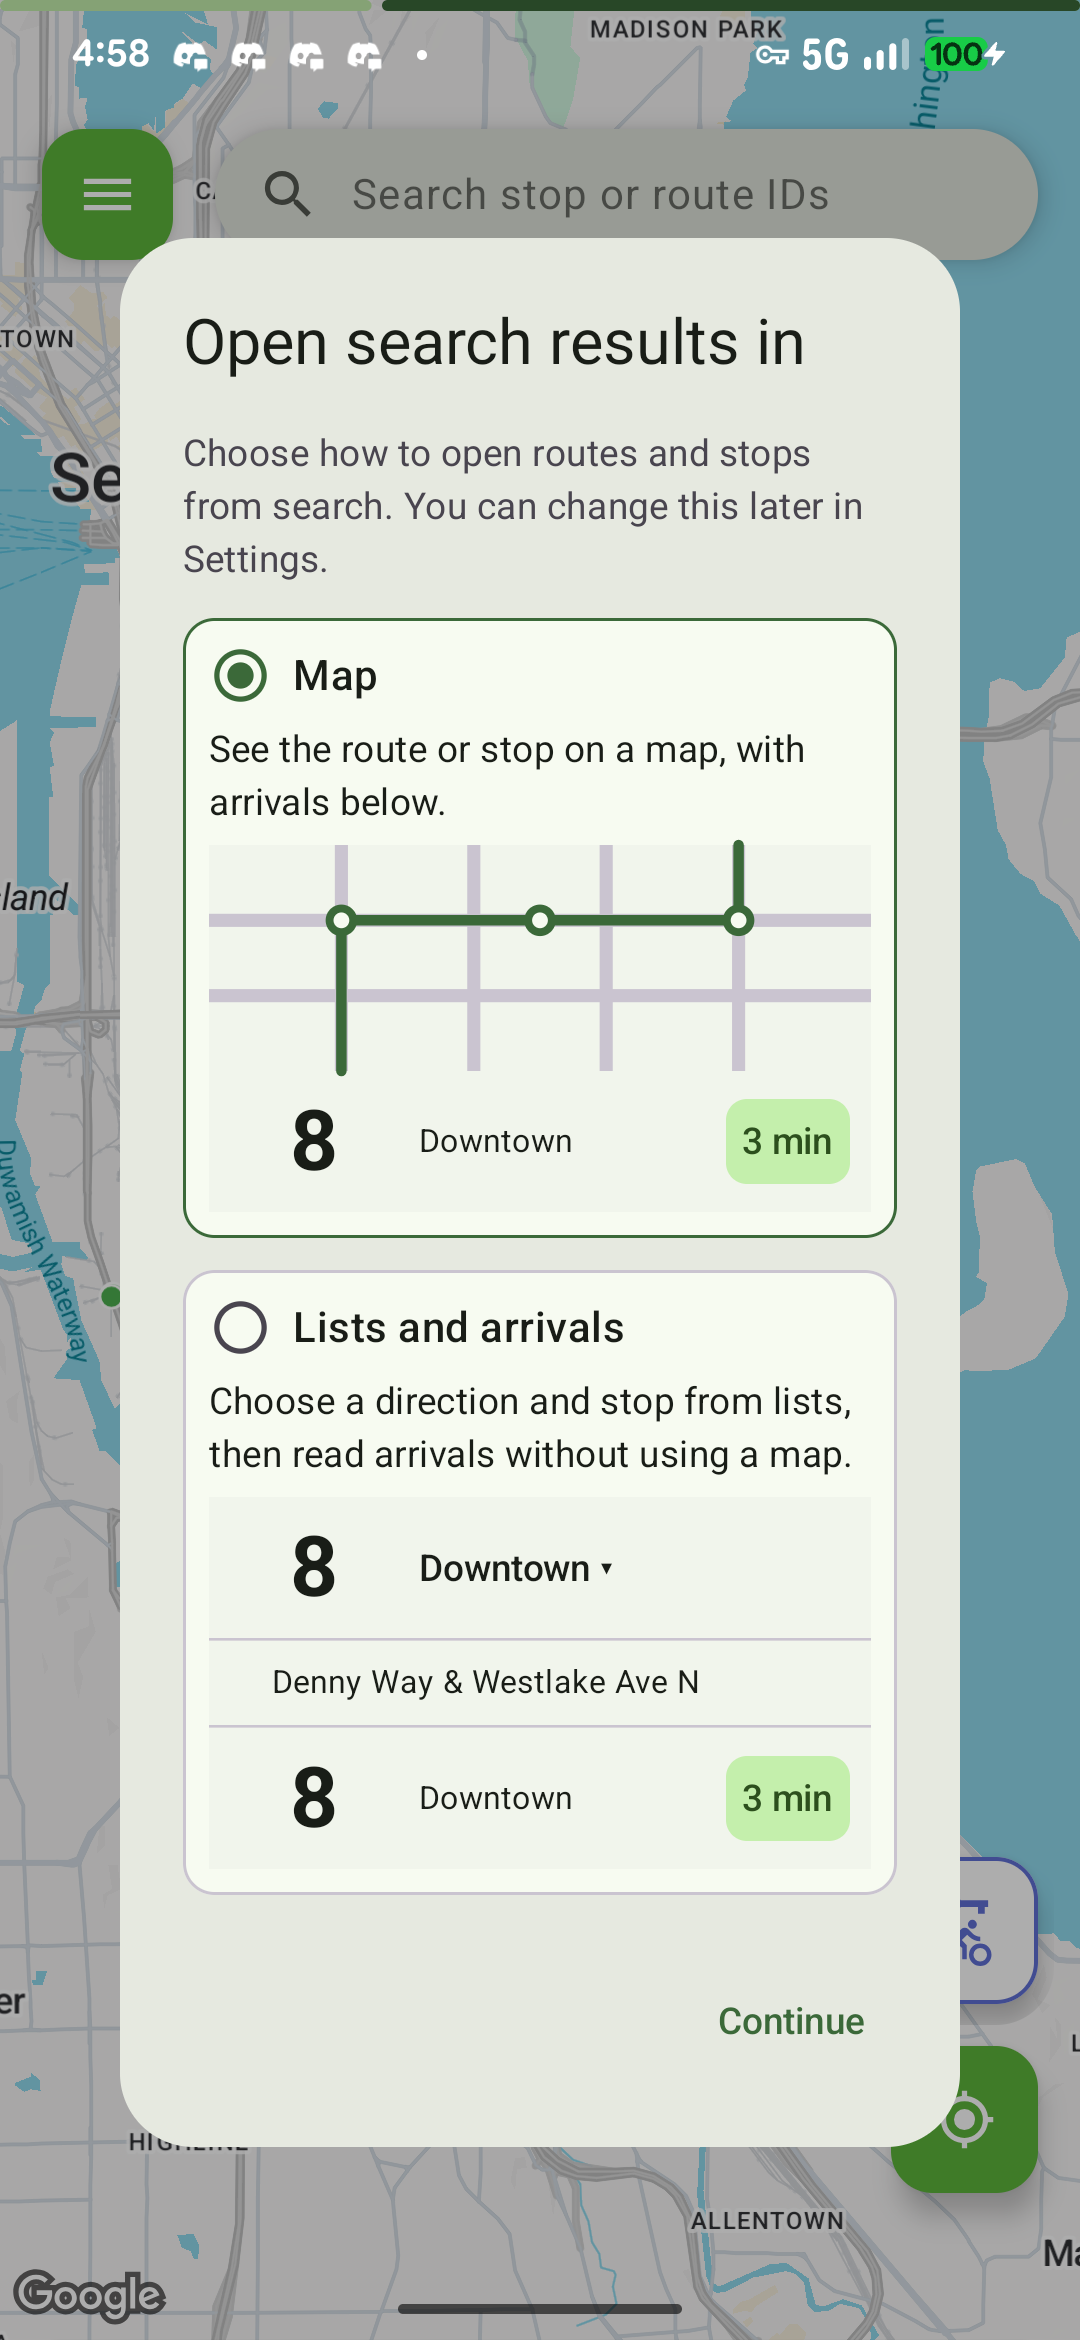
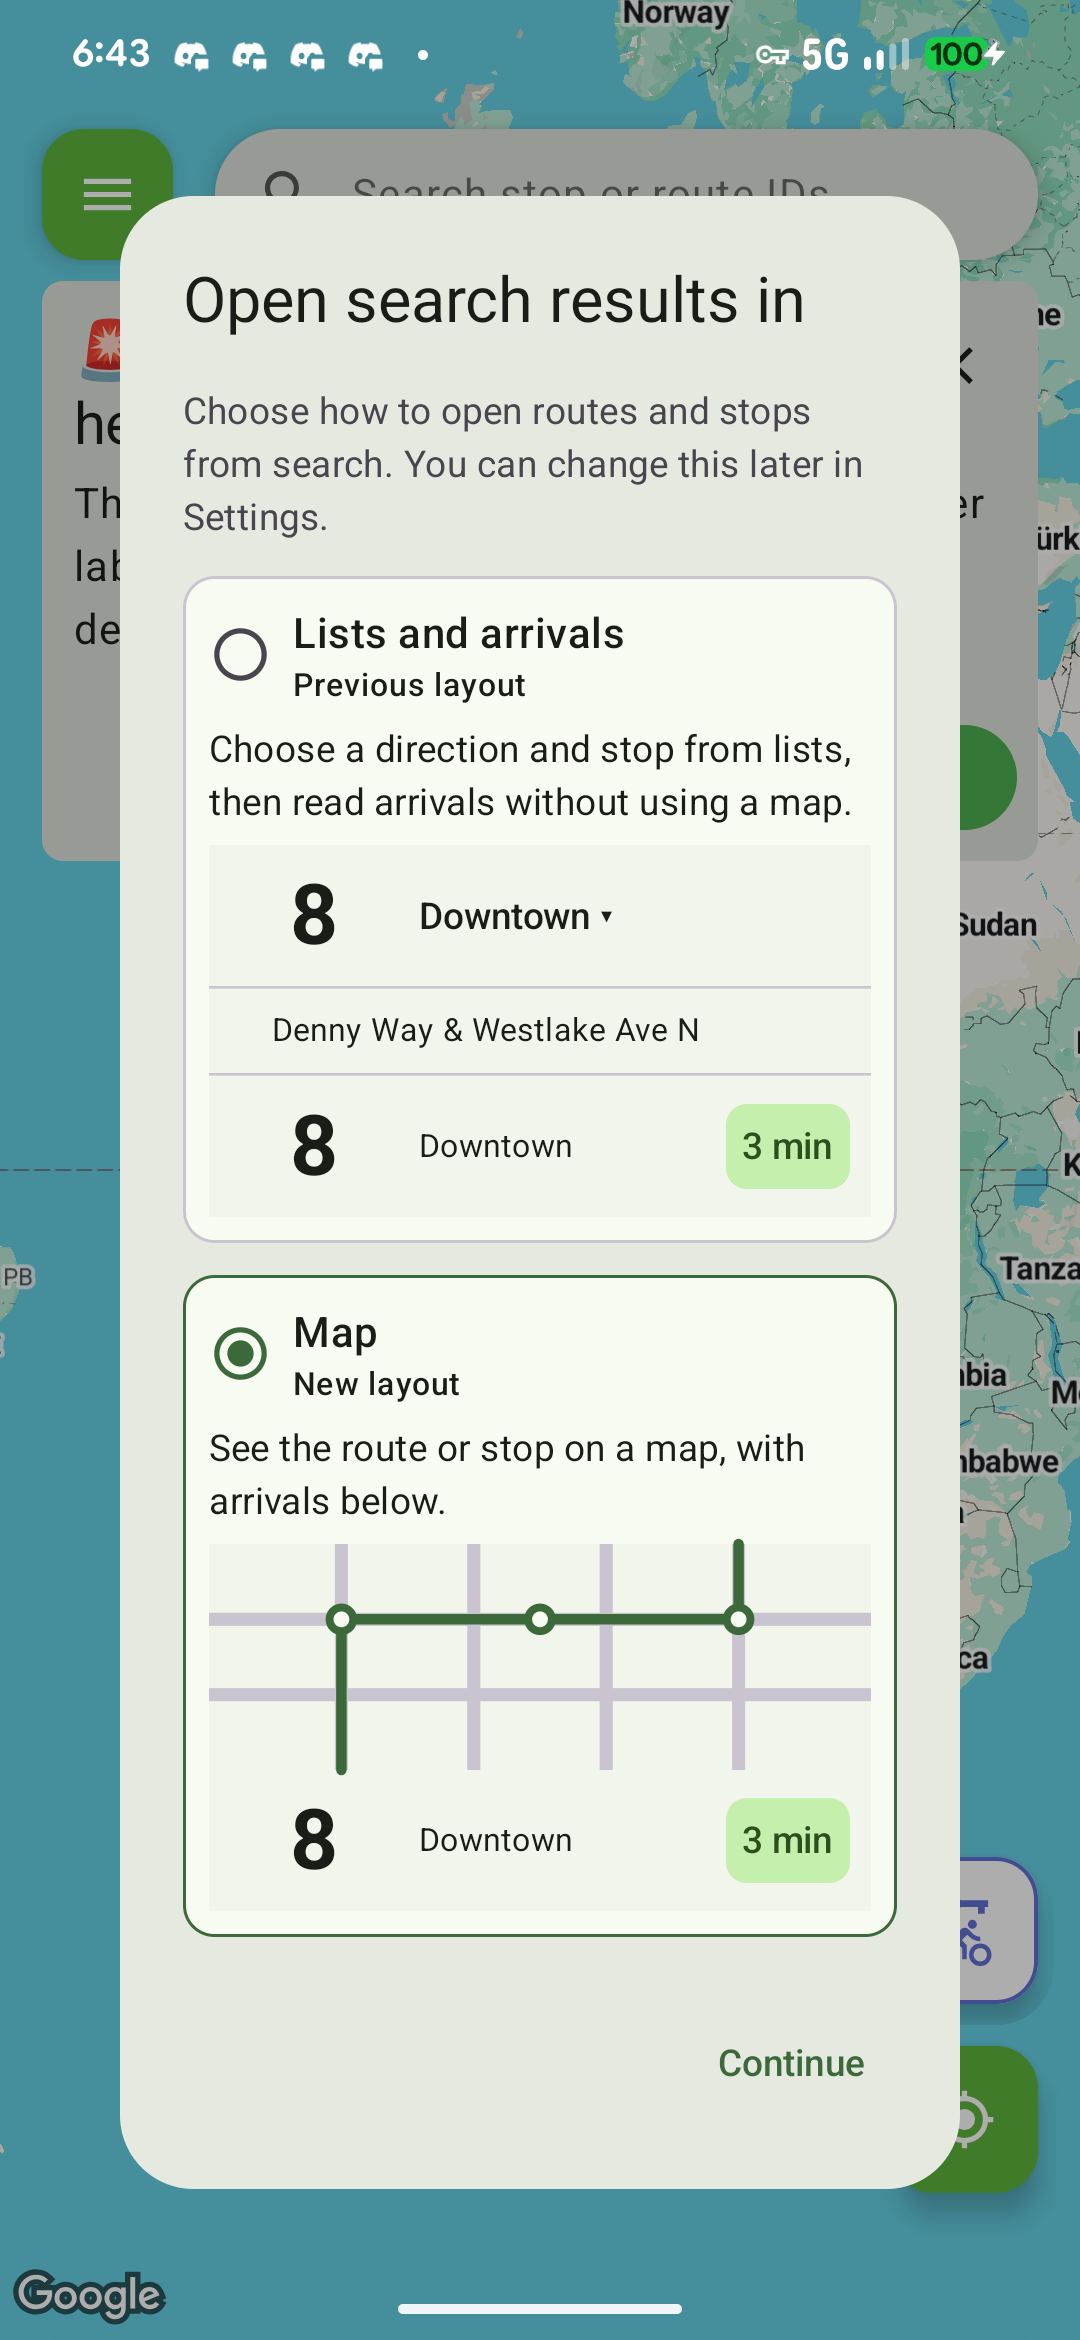
Align migration choices and Continue actions

diff --git a/onebusaway-android/src/main/java/org/onebusaway/android/ui/home/help/SearchWorkflowChoiceDialog.kt b/onebusaway-android/src/main/java/org/onebusaway/android/ui/home/help/SearchWorkflowChoiceDialog.kt
@@ -68,7 +68,7 @@ internal fun SearchWorkflowChoiceDialog(onSave: (SearchResultMode) -> Unit, onDi
                 verticalArrangement = Arrangement.spacedBy(12.dp)
             ) {
                 Text(stringResource(R.string.search_result_mode_migration_body))
-                SearchResultMode.entries.forEach { mode ->
+                listOf(SearchResultMode.LISTS, SearchResultMode.MAP).forEach { mode ->
                     Surface(
                         shape = MaterialTheme.shapes.medium,
                         border = BorderStroke(1.dp, if (selected == mode) MaterialTheme.colorScheme.primary else MaterialTheme.colorScheme.outlineVariant)
@@ -79,10 +79,16 @@ internal fun SearchWorkflowChoiceDialog(onSave: (SearchResultMode) -> Unit, onDi
                         ) {
                             Row(verticalAlignment = Alignment.CenterVertically, horizontalArrangement = Arrangement.spacedBy(8.dp)) {
                                 RadioButton(selected = selected == mode, onClick = null)
-                                Text(
-                                    stringResource(if (mode == SearchResultMode.MAP) R.string.search_result_mode_map else R.string.search_result_mode_lists),
-                                    style = MaterialTheme.typography.titleMedium
-                                )
+                                Column {
+                                    Text(
+                                        stringResource(if (mode == SearchResultMode.MAP) R.string.search_result_mode_map else R.string.search_result_mode_lists),
+                                        style = MaterialTheme.typography.titleMedium
+                                    )
+                                    Text(
+                                        stringResource(if (mode == SearchResultMode.LISTS) R.string.migration_previous_layout else R.string.migration_new_layout),
+                                        style = MaterialTheme.typography.labelMedium
+                                    )
+                                }
                             }
                             Text(stringResource(if (mode == SearchResultMode.MAP) R.string.search_result_mode_map_description else R.string.search_result_mode_lists_description))
                             SearchWorkflowPreview(mode)
@@ -91,7 +97,7 @@ internal fun SearchWorkflowChoiceDialog(onSave: (SearchResultMode) -> Unit, onDi
                 }
             }
         },
-        confirmButton = { TextButton(onClick = { onSave(selected) }) { Text(stringResource(R.string.search_result_mode_continue)) } }
+        confirmButton = { TextButton(onClick = { onSave(selected) }) { Text(stringResource(R.string.migration_continue)) } }
     )
 }
 

diff --git a/onebusaway-android/src/main/java/org/onebusaway/android/ui/arrivals/components/ArrivalDisplayChoiceDialog.kt b/onebusaway-android/src/main/java/org/onebusaway/android/ui/arrivals/components/ArrivalDisplayChoiceDialog.kt
@@ -83,10 +83,16 @@ internal fun ArrivalDisplayChoiceDialog(
                         Column(Modifier.selectable(selected == mode, role = Role.RadioButton, onClick = { selected = mode }).padding(10.dp)) {
                             Row(verticalAlignment = Alignment.CenterVertically, horizontalArrangement = Arrangement.spacedBy(8.dp)) {
                                 RadioButton(selected = selected == mode, onClick = null)
-                                Text(
-                                    stringResource(if (mode == ArrivalDisplayMode.TIME) R.string.arrival_display_time_migration_title else R.string.arrival_display_route_migration_title),
-                                    style = MaterialTheme.typography.titleMedium
-                                )
+                                Column {
+                                    Text(
+                                        stringResource(if (mode == ArrivalDisplayMode.TIME) R.string.arrival_display_time else R.string.arrival_display_route),
+                                        style = MaterialTheme.typography.titleMedium
+                                    )
+                                    Text(
+                                        stringResource(if (mode == ArrivalDisplayMode.TIME) R.string.migration_previous_layout else R.string.migration_new_layout),
+                                        style = MaterialTheme.typography.labelMedium
+                                    )
+                                }
                             }
                             Text(stringResource(if (mode == ArrivalDisplayMode.TIME) R.string.arrival_display_time_description else R.string.arrival_display_route_description))
                             ArrivalModePreview(mode, onSelect = { selected = mode })
@@ -95,8 +101,7 @@ internal fun ArrivalDisplayChoiceDialog(
                 }
             }
         },
-        confirmButton = { TextButton(onClick = { onSave(selected) }) { Text(stringResource(R.string.arrival_display_save_default)) } },
-        dismissButton = { TextButton(onClick = onDismiss) { Text(stringResource(android.R.string.cancel)) } }
+        confirmButton = { TextButton(onClick = { onSave(selected) }) { Text(stringResource(R.string.migration_continue)) } }
     )
 }
 

diff --git a/onebusaway-android/src/androidTest/java/org/onebusaway/android/ui/home/help/SearchWorkflowChoiceTest.kt b/onebusaway-android/src/androidTest/java/org/onebusaway/android/ui/home/help/SearchWorkflowChoiceTest.kt
@@ -15,11 +15,14 @@
  */
 package org.onebusaway.android.ui.home.help
 
+import androidx.compose.ui.test.assertIsSelected
+import androidx.compose.ui.test.getUnclippedBoundsInRoot
 import androidx.compose.ui.test.junit4.StateRestorationTester
 import androidx.compose.ui.test.onNodeWithText
 import androidx.compose.ui.test.performClick
 import androidx.compose.ui.test.performScrollTo
 import org.junit.Assert.assertEquals
+import org.junit.Assert.assertTrue
 import org.junit.Rule
 import org.junit.Test
 import org.onebusaway.android.ui.compose.createUnconfinedComposeRule
@@ -33,6 +36,11 @@ class SearchWorkflowChoiceTest {
     fun continueSavesThePreselectedMapChoice() {
         var saved: SearchResultMode? = null
         compose.setContent { ObaTheme { SearchWorkflowChoiceDialog({ saved = it }, {}) } }
+        compose.onNodeWithText("Map").assertIsSelected()
+        assertTrue(
+            compose.onNodeWithText("Lists and arrivals").getUnclippedBoundsInRoot().top <
+                compose.onNodeWithText("Map").getUnclippedBoundsInRoot().top
+        )
         compose.onNodeWithText("Continue").performClick()
         compose.runOnIdle { assertEquals(SearchResultMode.MAP, saved) }
     }

diff --git a/onebusaway-android/src/androidTest/java/org/onebusaway/android/ui/arrivals/ArrivalDisplayModeTest.kt b/onebusaway-android/src/androidTest/java/org/onebusaway/android/ui/arrivals/ArrivalDisplayModeTest.kt
@@ -148,9 +148,15 @@ class ArrivalDisplayModeTest {
         composeRule.setContent {
             ArrivalDisplayChoiceDialog(ArrivalDisplayMode.ROUTE, onSave = { saved = it }, onDismiss = {})
         }
-        composeRule.onNodeWithText("Time - old way").performClick()
+        composeRule.onNodeWithText("Route").assertIsSelected()
+        assertTrue(
+            composeRule.onNodeWithText("Time").getUnclippedBoundsInRoot().top <
+                composeRule.onNodeWithText("Route").getUnclippedBoundsInRoot().top
+        )
+        composeRule.onNodeWithText("Cancel").assertDoesNotExist()
+        composeRule.onNodeWithText("Time").performClick()
         composeRule.runOnIdle { assertEquals(null, saved) }
-        composeRule.onNodeWithText("Save default").performClick()
+        composeRule.onNodeWithText("Continue").performClick()
         composeRule.runOnIdle { assertEquals(ArrivalDisplayMode.TIME, saved) }
     }
 }

diff --git a/docs/validation/2309/README.md b/docs/validation/2309/README.md
@@ -46,8 +46,11 @@ No replacement gesture, form, or map interpretation is introduced.
 
 ## Updated-app device observations
 
-The Map option is preselected in the graphical migration dialog; both previews
-and Continue fit on the Pixel screen. Chose Lists and arrivals, restarted, and
+Both graphical migration dialogs place the Previous layout first (Lists and
+arrivals / Time), followed by the selected New layout (Map / Route). Each has a
+single Continue button. Both previews and Continue fit on the Pixel screen.
+The six focused arrival-display and search-workflow tests passed after this
+update, including option order, default selection, and saving with Continue. Chose Lists and arrivals, restarted, and
 confirmed the prompt did not return. Starred stops restored with toolbar Search.
 From that section, entered `8`, selected the Seattle route, expanded Mount Baker
 Transit Center, scrolled, and selected Denny Way & Westlake Ave. The live mapless
@@ -96,6 +99,7 @@ failure; this is not an all-green full-suite claim.
 | Mapless arrivals | [Before](oba-2309-march-arrivals.png) | [After](oba-2309-new-arrivals.png) |
 | Direct stop result | [Old choice dialog](oba-2309-march-stop-choice.png) | [New result](oba-2309-new-stop-search.png) |
 
-[Graphical migration](oba-2309-new-migration.png) ·
+[Search migration](oba-2309-new-migration.png) ·
+[Arrival-display migration](oba-2309-arrival-migration.png) ·
 [Map-mode stop search](oba-2309-map-stop-search.png) ·
 [Map-mode route search](oba-2309-map-route-search.png)
